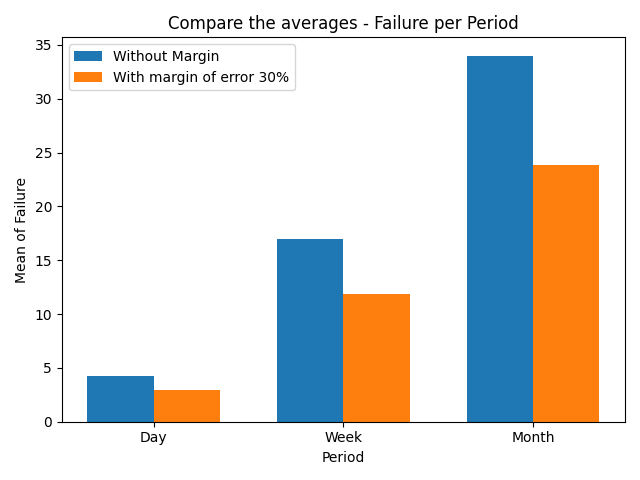
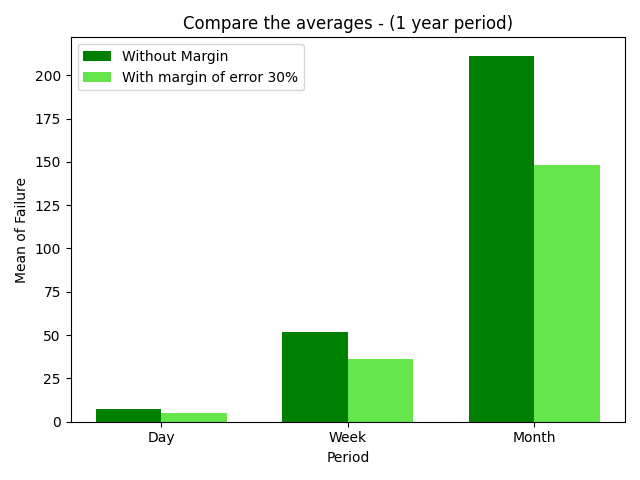
New Chart

diff --git a/create_dashboard.py b/create_dashboard.py
@@ -1,18 +1,23 @@
 import matplotlib.pyplot as plt
+import matplotlib.cm as cm
 from analise import analisar_falhas
 import pandas as pd
-import os as os
+import os
 
 # Parâmetros
 csv_path = 'data/WF_failures_2025_06_17.csv'
-start_filter = pd.to_datetime('2025-06-09')
+start_filter = pd.to_datetime('2024-06-17')
 end_filter = pd.to_datetime('2025-06-17')
 margem_erro_percentual = 30
 
 # Executando a análise
 resultados = analisar_falhas(csv_path, start_filter, end_filter, margem_erro_percentual)
 
-# Exemplo de um gráfico de barras comparando as médias
+# Verifica se a pasta de imagens existe, se não, cria uma
+output_dir = 'generated_images'
+os.makedirs(output_dir, exist_ok=True)
+
+# ======================GRÁFICO DE BARRAS======================
 labels = ['Day', 'Week', 'Month']
 sem_margem = [
     resultados['mean_daily_real'],
@@ -29,40 +34,67 @@ x = range(len(labels))
 width = 0.35
 
 fig, ax = plt.subplots()
-ax.bar(x, sem_margem, width, label='Without Margin')
-ax.bar([p + width for p in x], com_margem, width, label='With margin of error 30%')
+ax.bar(x, sem_margem, width, color='#008000', label='Without Margin')
+ax.bar([p + width for p in x], com_margem, width, color="#64E54A", label='With margin of error 30%')
 
 ax.set_xlabel('Period')
 ax.set_ylabel('Mean of Failure')
-ax.set_title('Compare the averages - Failure per Period')
+ax.set_title('Compare the averages - (1 year period)')
 ax.set_xticks([p + width / 2 for p in x])
 ax.set_xticklabels(labels)
 ax.legend()
 
 plt.tight_layout()
+output_path_barras = os.path.join(output_dir, 'dashboard.png')
+plt.savefig(output_path_barras)
+plt.close()
 
-#Verifica se a pasta de imagens existe, se não, cria uma.
-output_dir = 'generated_images'
-os.makedirs(output_dir, exist_ok= True)
-
-#Salva o dashboard gerado na pasta.
-output_path = os.path.join(output_dir, 'dashboard.png')
-
-plt.savefig(output_path)
-
+# ======================GRÁFICO DE LINHA======================
 fig, ax = plt.subplots()
 
-ax.plot(labels, sem_margem, marker='o', linestyle='-', color='blue', label='Without Margin')
-ax.plot(labels, com_margem, marker='o', linestyle='--', color='orange', label='With Error Margin (30%)')
+ax.plot(labels, sem_margem, marker='o', linestyle='-', color='#008000', label='Without Margin')
+ax.plot(labels, com_margem, marker='o', linestyle='--', color="#64E54A", label='With Error Margin (30%)')
 
 ax.set_xlabel('Period')
 ax.set_ylabel('Mean of Failure')
-ax.set_title('Failure Trend (Line Chart)')
+ax.set_title('Line Chart - (1 year period)')
 ax.legend()
 
 plt.tight_layout()
-output_path_onda = os.path.join(output_dir, 'dashboard_line.png')
-plt.savefig(output_path_onda)
+output_path_linha = os.path.join(output_dir, 'dashboard_line.png')
+plt.savefig(output_path_linha)
 plt.close()
 
-print(f"Saved images: {output_path}")
+# ======================GRÁFICO DE PIZZA======================
+top_10_df = resultados['top_10_robos']
+
+# Verifica se o DataFrame não está vazio
+if not top_10_df.empty:
+    labels_pizza = top_10_df['workflowName']
+    sizes_pizza = top_10_df['total_falhas']
+
+    fig, ax = plt.subplots(figsize=(8, 8))
+    colors_pizza = plt.cm.tab10.colors  # Usando uma paleta de até 10 cores
+
+    ax.pie(
+        sizes_pizza,
+        labels=labels_pizza,
+        autopct='%1.1f%%',
+        startangle=140,
+        colors=colors_pizza
+    )
+
+    ax.set_title('Top 10 Workflows with Most Failures - (1 year period)')
+    ax.axis('equal')  # Deixar a pizza circular
+
+    output_path_pizza = os.path.join(output_dir, 'dashboard_pizza.png')
+    plt.savefig(output_path_pizza, bbox_inches='tight')
+    plt.close()
+
+    print(f"Saved pie chart: {output_path_pizza}")
+else:
+    print("No failures found for the selected period. Skipping pie chart.")
+
+# ====================== FINAL ======================
+print(f"Saved bar chart: {output_path_barras}")
+print(f"Saved line chart: {output_path_linha}")

diff --git a/analise.py b/analise.py
@@ -7,7 +7,7 @@ def analisar_falhas(csv_path, start_filter, end_filter, margem_erro_percentual):
     df['completedDate'] = pd.to_datetime(df['completedDate'], errors='coerce')
     df['status'] = df['status'].str.strip().str.upper()
 
-    # Filtrando falhas
+    # Filtrar apenas falhas dentro do período
     df_failed = df[
         (df['status'] == 'FAILURE') &
         (df['completedDate'] >= start_filter) &
@@ -22,14 +22,23 @@ def analisar_falhas(csv_path, start_filter, end_filter, margem_erro_percentual):
     total_weeks = np.ceil(total_days / 7)
     total_months = (end_date.year - start_date.year) * 12 + (end_date.month - start_date.month) + 1
 
-    mean_daily_real = total_failures / total_days
-    mean_weekly_real = total_failures / total_weeks
-    mean_monthly_real = total_failures / total_months
+    mean_daily_real = total_failures / total_days if total_days > 0 else 0
+    mean_weekly_real = total_failures / total_weeks if total_weeks > 0 else 0
+    mean_monthly_real = total_failures / total_months if total_months > 0 else 0
 
     failures_ajustadas = total_failures * (1 - margem_erro_percentual / 100)
-    mean_daily_corrigida = failures_ajustadas / total_days
-    mean_weekly_corrigida = failures_ajustadas / total_weeks
-    mean_monthly_corrigida = failures_ajustadas / total_months
+    mean_daily_corrigida = failures_ajustadas / total_days if total_days > 0 else 0
+    mean_weekly_corrigida = failures_ajustadas / total_weeks if total_weeks > 0 else 0
+    mean_monthly_corrigida = failures_ajustadas / total_months if total_months > 0 else 0
+
+    # Top 10 workflows que mais apresentam falhas
+    top_10_robos = (
+    df_failed['workflowName']
+    .value_counts()
+    .head(10)
+    .reset_index(name='total_falhas')
+    .rename(columns={'index': 'workflowName'})
+)
 
     resultados = {
         'start_date': start_date,
@@ -42,7 +51,8 @@ def analisar_falhas(csv_path, start_filter, end_filter, margem_erro_percentual):
         'mean_daily_corrigida': mean_daily_corrigida,
         'mean_weekly_corrigida': mean_weekly_corrigida,
         'mean_monthly_corrigida': mean_monthly_corrigida,
-        'margem_erro_percentual': margem_erro_percentual
+        'margem_erro_percentual': margem_erro_percentual,
+        'top_10_robos': top_10_robos
     }
 
     return resultados

diff --git a/README.md b/README.md
@@ -8,3 +8,5 @@ This project is about the extraction of error reports from raw log files and gen
 
 ### Line Chart
 ![Line Chart](generated_images/dashboard_line.png)
+
+![Pizza Chart](generated_images/dashboard_pizza.png)
